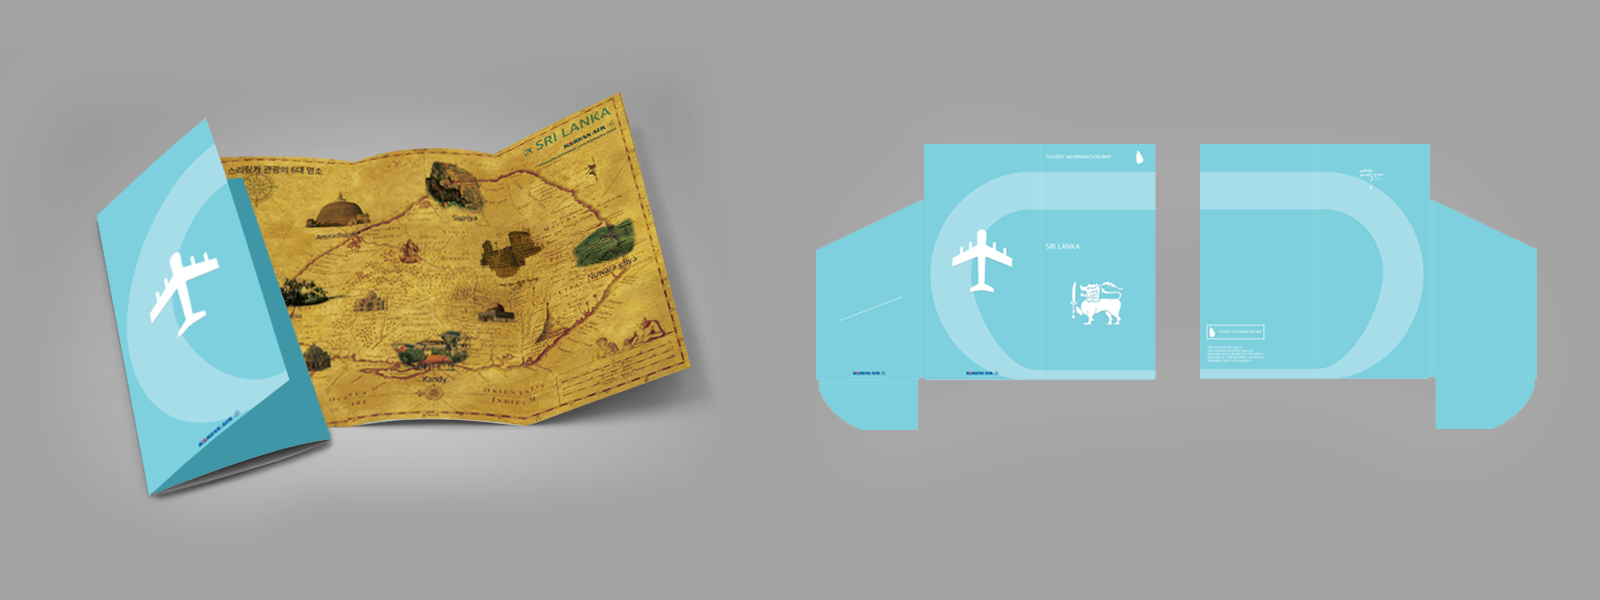
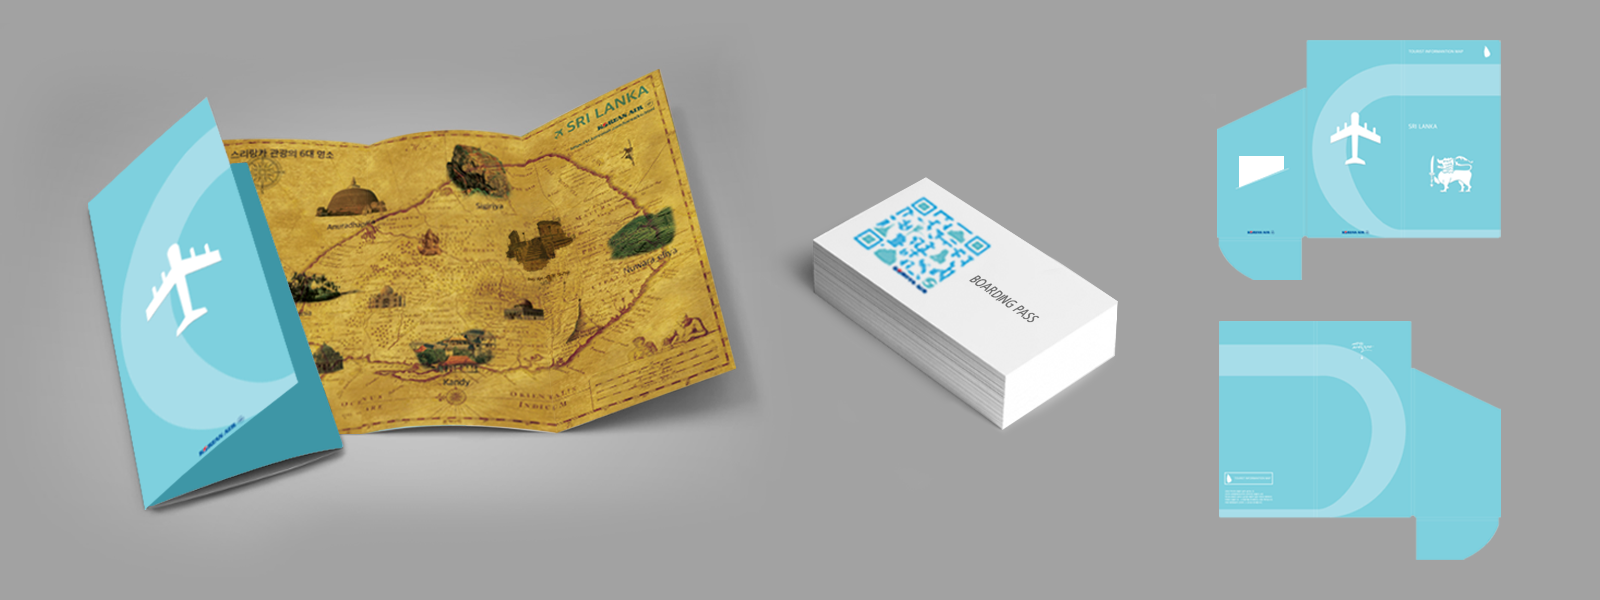
0414 upload1

diff --git a/portfolio.html b/portfolio.html
@@ -266,31 +266,47 @@
 
     <div id="four">
       <div class="fourbox">
-      <div class="fourbox_text">
-          BRAND DEISGN
-    </div>
-    <div class="fourbox_text2">
-      <span>
-      해당 작업물은 졸업작품전시에 활용되었으며, 스리랑카행 대한항공 노선 증감 목적으로 이루어졌습니다.
-      </span>
-        <div>
-          <h1>대한항공</h1>
-        </div>
-    </div>
-    <div class="fourbox_main">
-      <div class="koreanair">
-          <div class="leaflet_text">
-            리플렛 디자인
+            <div class="fourbox_text">
+                BRAND DEISGN
           </div>
-          <div class="leaflet">
-            <img src="lf.png" alt="">
+          <div class="fourbox_text2">
+            <span>
+            해당 작업물은 졸업작품전시에 활용되었으며, 스리랑카행 대한항공 노선 증가 목적으로 이루어졌습니다.
+            </span>
+              <div>
+                <h1>대한항공</h1>
+              </div>
           </div>
 
 
+          <div class="fourbox_main">
+            <div class="koreanair">
+                <div class="leaflet_text">
+                  리플렛 디자인
+                  <div>
+                    <span>스리랑카 관광 명소를 나타낸 지도를 리플렛 형태로 제작하였으며, 
+                    <br>명함 형태의 QR코드를 제공하여 관광명소 영상을 제공하였습니다.</span>
+                  </div>
+                </div>
+                <div class="leaflet">
+                  <img src="lf.png" alt="">
+                </div>
+                <div class="poster_text">
+                  포스터 디자인
+                    <div>
+                    <span>스리랑카 관광 명소를 나타낸 지도를 리플렛 형태로 제작하였으며, 
+                    <br>명함 형태의 QR코드를 제공하여 관광명소 영상을 제공하였습니다.</span>
+                    </div>
+                </div>
+                    <div class="poster_koreaair">
+                      <img src="posterka.png" alt="">
+                    </div>
+
+                </div>
+            </div>
+          </div>
       </div>
-    </div>
-      </div>
-      </div>
+
 
 
 

diff --git a/portfolio.css b/portfolio.css
@@ -477,11 +477,47 @@ html {
 }
 .fourbox_main .leaflet_text {
   color: white;
-  font-size: 14px;
+  font-size: 18px;
   position: absolute;
   margin: 60px 0 0 0;
 }
 
+.fourbox_main .leaflet_text > div {
+  background-color: rgb(0, 0, 0, 0.3);
+  width: 400px;
+  height: 70px;
+  margin: 15px 0 0 0;
+  display: flex;
+  justify-content: center;
+}
+.fourbox_main .leaflet_text > div span {
+  font-size: 12px;
+  color: white;
+  align-self: center;
+  line-height: 20px;
+}
 .fourbox_main .leaflet {
   margin: 70px 0 0 0;
+}
+
+.fourbox_main .poster_text {
+  color: white;
+  font-size: 18px;
+  margin: 80px 0 0 0;
+}
+
+.fourbox_main .poster_text div {
+  width: 400px;
+  height: 70px;
+  margin: 15px 0 0 0;
+  background-color: rgb(0, 0, 0, 0.3);
+  display: flex;
+  justify-content: center;
+}
+
+.fourbox_main .poster_text div span {
+  font-size: 12px;
+  color: white;
+  align-self: center;
+  line-height: 20px;
 }
